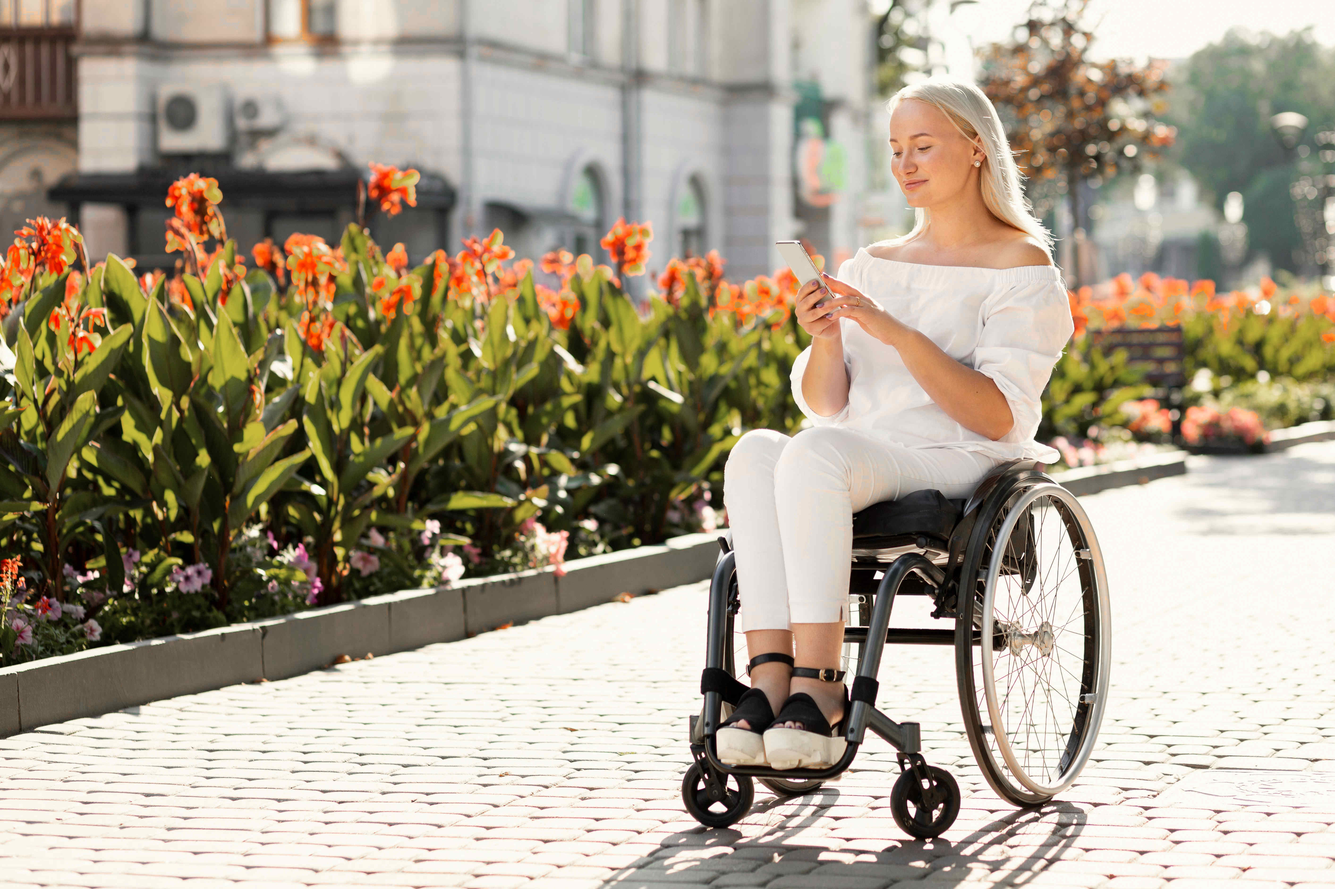
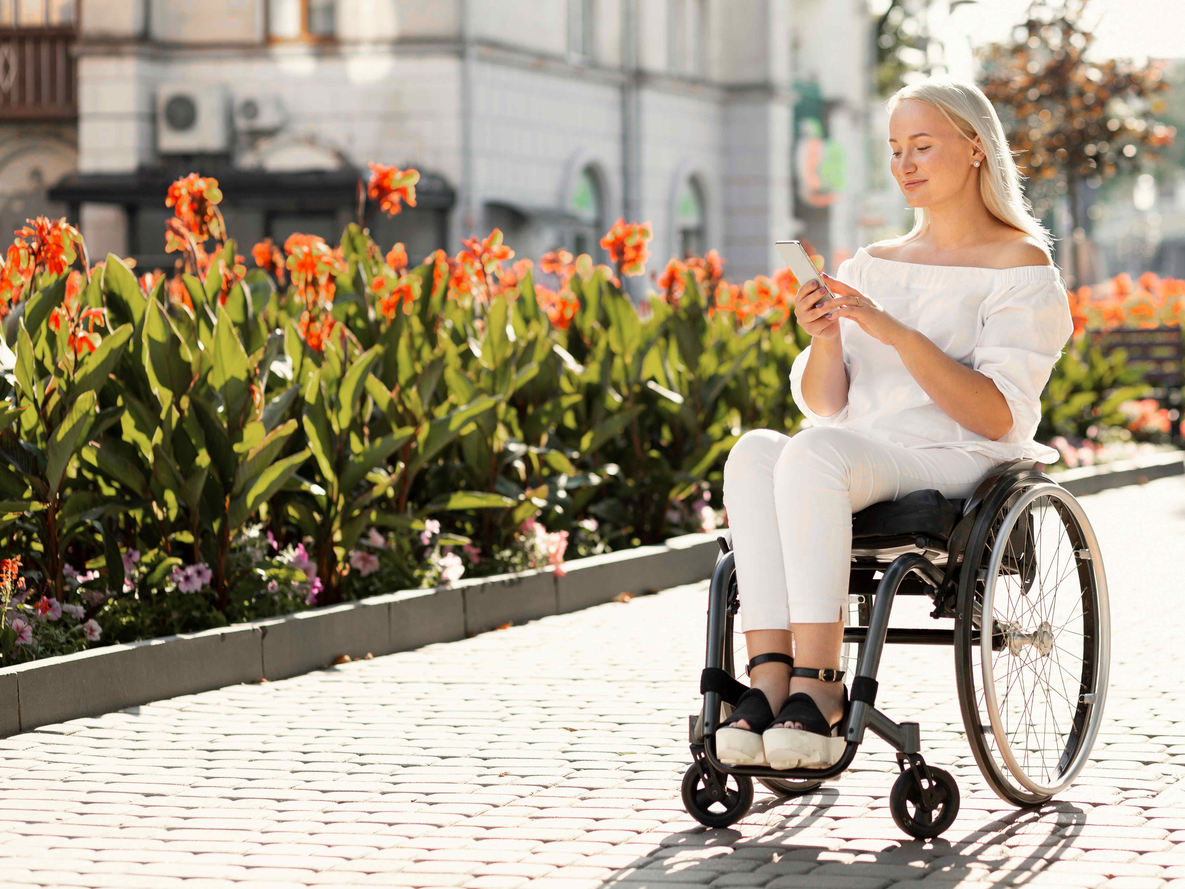
Added Javascript to position cover-text for md screens

diff --git a/index.html b/index.html
@@ -54,23 +54,23 @@
 
     <!-- Header -->
     <header>
+
+        <!-- Hero image with cover title -->
         <section id="hero">
-            <div id="cover-title">
+            <div id="cover-title" class="px-2 ms-md-2 ps-md-3">
                 <h2>Your path to accessibility</h2>
             </div>
         </section>
 
-        <!-- Sits below hero image for small screen sizes-->
-        <div class="p-3" id="cover-text-call">
+        <!-- Sits below hero image for small screen sizes, moves up to left-hand-side of hero image for medium screns-->
+        <div class="py-4 py-md-0 ms-md-2" id="cover-text-call">
 
+            <!-- Cover text -->
             <div class="p-2" id="cover-text">
-                <h3>Mobility Mapper is a free route-finder and navigation app specifically designed for users of
-                    wheeled
-                    mobility devices, including wheelchairs, mobility scooters, and tricycles.</h3>
-                <br>
+                <h3 class="pb-2">Mobility Mapper is a free route-finder and navigation app specifically designed for
+                    users of wheeled mobility devices, including wheelchairs, mobility scooters, and tricycles.</h3>
                 <h3>Mobility Mapper will enable you to generate accessible, barrier-free routes based on your
-                    specific
-                    needs, and the limitations of your wheeled mobility device.</h3>
+                    specific needs, and the limitations of your wheeled mobility device.</h3>
             </div>
 
             <!-- Call to action buttons -->
@@ -111,9 +111,9 @@
             </div>
         </div>
 
-
-        <div id="follow-social-media" class="mt-4 text-center">
-            <h3>Follow us on social media</h3>
+        <!-- Moves up onto her image for large screens -->
+        <div id="follow-social-media" class="my-4 text-center">
+            <h3 class="mb-3">Follow us on social media</h3>
             <div class="social-media-icons">
                 <a href="https://www.facebook.com/" target="_blank" rel="noopener noreferrer">
                     <i class="bi bi-facebook"></i>
@@ -143,7 +143,7 @@
                         <img src="./assets/images/stairs.jpg" class="card-img-top"
                             alt="A man in a wheelchair at the bottom of a set of steps, looking up at them. He is facing away from us.">
                         <div class="card-body">
-                            <h3 class="card-title brown-text">Avoid barriers</h3>
+                            <h3 class="card-title">Avoid barriers</h3>
                             <p class="card-text brown-text">
                                 Mobility Mapper generates routes that don't involve barriers, such as steps, steep
                                 hills, narrow paths, rough surfaces, high curbs, and gates designed to block motorbikes.
@@ -157,7 +157,7 @@
                         <img src="./assets/images/dropped_kerb_london.png" class="card-img-top"
                             alt="A dropped kerb on a path next to a road.">
                         <div class="card-body">
-                            <h3 class="card-title brown-text">Locate dropped kerbs and ramps</h3>
+                            <h3 class="card-title">Locate dropped kerbs and ramps</h3>
                             <p class="card-text brown-text">
                                 Dropped kerbs and ramps are marked on the map, so you can easily find exit and entry
                                 points.
@@ -171,7 +171,7 @@
                         <img src="./assets/images/device_dimensions.png" class="card-img-top"
                             alt="A man in a wheelchair looking at the path ahead of him. There is an orange, double-ended arrow spanning the width of the wheelchair, and an orange triangle under the wheelchair, representing a slope.">
                         <div class="card-body">
-                            <h3 class="card-title brown-text">Tailor routes to your needs</h3>
+                            <h3 class="card-title">Tailor routes to your needs</h3>
                             <p class="card-text brown-text">
                                 Generate accessible routes based on your specific needs of the user (e.g maximum
                                 incline, no cobbles), and the limitations of your mobility device (e.g. minimum path
@@ -186,8 +186,8 @@
                         <img src="./assets/images/accessible_toilet.jpg" class="card-img-top"
                             alt="A row of three beach huts that have been made into accessible toilets. The doors are wide, and there is a ramp leading up to them.">
                         <div class="card-body">
-                            <h3 class="card-title brown-text">Locate accessible points of interest</h3>
-                            <p class="card-text brown-text">
+                            <h3 class="card-title">Locate accessible points of interest</h3>
+                            <p class="card-text">
                                 Accessible points of interest are displayed on the map, including toilets, cafes, shops,
                                 and nature spots.
                             </p>
@@ -200,9 +200,10 @@
                         <img src="./assets/images/locate_dropped_kerbs.png" class="card-img-top"
                             alt="A map with a large orange Mobility Mapper marker, indicating the location of a dropped kerb or barrier.">
                         <div class="card-body">
-                            <h3 class="card-title brown-text">Report barriers and dropped kerbs</h3>
+                            <h3 class="card-title">Report barriers and dropped kerbs</h3>
                             <p class="card-text brown-text">
-                                If you come across a barrier, ramp or dropped curb that is not marked on the map, you can report it on the app.
+                                If you come across a barrier, ramp or dropped curb that is not marked on the map, you
+                                can report it on the app.
                             </p>
                         </div>
                     </div>
@@ -213,9 +214,10 @@
                         <img src="./assets/images/Matt_Walker.png" class="card-img-top"
                             alt="Two smiling men in wheelchairs facing us and giving each other a fist bump.">
                         <div class="card-body">
-                            <h3 class="card-title brown-text">Connect with other wheelers</h3>
+                            <h3 class="card-title">Connect with other wheelers</h3>
                             <p class="card-text brown-text">
-                                An integrated social network enables you to connect with other wheelers, and share information on accessible locations and favourite routes.                            </p>
+                                An integrated social network enables you to connect with other wheelers, and share
+                                information on accessible locations and favourite routes. </p>
                         </div>
                     </div>
                 </div>
@@ -223,41 +225,49 @@
             </div>
         </section>
 
-        <section id="seeking-funding" class="my-2 text-center">
-            <h2 class="m-3">We are currently seeking funding and partnerships!</h2>
-            <p class="m-3">Please check out our page for potential funders and partners. Whether you are an organisation or individual, you can help us accelerate the development of Mobility Mapper.</p>
+        <section id="seeking-funding" class="m-2 text-center">
+            <h2 class="my-3">We are currently seeking funding and partnerships!</h2>
+            <p class="my-3">Please check out our page for potential funders and partners. Whether you are an
+                organisation or individual, you can help us accelerate the development of Mobility Mapper.</p>
             <!-- Go to partnerships page -->
-            <button type="button" class="btn btn-lg custom-button-filled my-4" data-bs-target="parnerships.html">Go to the funding and partnerships page<i class="bi bi-arrow-right-circle"></i></button>
+            <button type="button" class="btn btn-lg custom-button-filled my-4" data-bs-target="parnerships.html">Go to
+                the funding and partnerships page<i class="bi bi-arrow-right-circle"></i></button>
         </section>
 
     </main>
 
     <!-- Footer -->
     <footer class="mt-5">
-        <div class="container py-4">
-            <div class="row px-3">
-                <div class="col-4 col-md-2">Home</div>
-                <div class="col-4 col-md-2">Subscribe</div>
-                <div class="col-4 col-md-2">Contact</div>
-                <div class="col-4 col-md-2">Top of page</div>
-                <div class="col-4 col-md-2">Partnerships</div>
-                <div class="col-4 col-md-2">Key Features</div>
 
-                <div class="col-12 social-media-icons text-center my-4">
-                    <a href="https://www.facebook.com/" target="_blank" rel="noopener noreferrer">
-                        <i class="bi bi-facebook"></i>
-                    </a>
-                    <a href="https://www.instagram.com/" target="_blank" rel="noopener noreferrer">
-                        <i class="bi bi-instagram"></i>
-                    </a>
-                    <a href="https://www.x.com/">
-                        <i class="bi bi-twitter-x"></i>
-                    </a>
-                </div>
-                <div class="col-12 text-center">
-                    <p mb-0>&copy; Mobility Mapper 2024</p>
-                </div>
+        <!-- Footer navigation -->
+        <div class="container py-4">
+            <!--equal spacing between the text links-->
+            <div class="row d-flex justify-content-center align-items-center gap-1 gap-md-3 px-2">
+                <div class="col-auto"><a href="index.html">Home</a></div>
+                <div class="col-auto"><a href="#myModal">Subscribe</a></div>
+                <div class="col-auto"><a href="contact.html">Contact</a></div>
+                <div class="col-auto"><a href="index.html">Top of page</a></div>
+                <div class="col-auto"><a href="partnerships.html">Partnerships</a></div>
+                <div class="col-auto"><a href="#key-features">Key Features</a></div>
             </div>
+        </div>
+
+        <!-- Social media icons -->
+        <div class="social-media-icons text-center pb-4">
+            <a href="https://www.facebook.com/profile.php?id=61556696245180" target="_blank" rel="noopener noreferrer">
+                <i class="bi bi-facebook"></i>
+            </a>
+            <a href="https://www.instagram.com/mobilitymapper/" target="_blank" rel="noopener noreferrer">
+                <i class="bi bi-instagram"></i>
+            </a>
+            <a href="https://www.x.com/MobilityMapper">
+                <i class="bi bi-twitter-x"></i>
+            </a>
+        </div>
+
+        <!--Copyright -->
+        <div class="text-center pb-3">
+            <p>&copy; Mobility Mapper 2024</p>
         </div>
 
     </footer>
@@ -267,6 +277,8 @@
     <script src="https://cdn.jsdelivr.net/npm/bootstrap@5.3.3/dist/js/bootstrap.bundle.min.js"
         integrity="sha384-YvpcrYf0tY3lHB60NNkmXc5s9fDVZLESaAA55NDzOxhy9GkcIdslK1eN7N6jIeHz"
         crossorigin="anonymous"></script>
+<!-- Custom js, determines position of bottom of #cover-title-->
+        <script src="./assets/js/index.js"></script>
 </body>
 
 </html>

diff --git a/assets/css/style.css b/assets/css/style.css
@@ -32,6 +32,10 @@ h1 {
     display: none;
 }
 
+p {
+    font-size: calc(1.1rem + .2vw)
+}
+
 a {
     text-decoration: none;
     color: var(--tertiary-color);
@@ -78,8 +82,6 @@ a {
     /* Larger height */
 }
 
-
-
 .navbar .logo {
     height: 40px
 }
@@ -104,14 +106,14 @@ a {
     width: 100%;
     /* Full width */
     /* height changes with screen witdth */
-    height: 1000px;
+    height: 600px;
     /* Default height */
     background-image: url("../images/woman-wheelchair-using-smartphone-optimised.jpg");
     background-size: cover;
     /* Resize the image to cover the entire container */
     background-repeat: no-repeat;
     /* Do not repeat the image */
-    background-position: 75% center;
+    background-position: 95% 100%;
     /* Position the image to the right */
     position: relative;
     /* For adding hero text relative to the hero image */
@@ -121,12 +123,10 @@ a {
 #cover-title {
     background-color: rgba(var(--primary-color), 0.8);
     position: absolute;
-    top: 30px;
-    /* 30px from the top of the #hero container */
-    width: 170px;
-    /* Fixed width, wraps text */
-    padding: 10px 20px 10px 10px;
-    /* Top, right, bottom, left */
+    top: 30px;    /* 30px from the top of the #hero container */
+    width: 170px; /* Fixed width, wraps text */
+    padding-top: 10px;
+    padding-bottom: 10px;
 }
 
 /* Container for cover text and call to action buttons */
@@ -137,7 +137,7 @@ a {
 
 /*
 cover-title height = h2 height + cover-title padding-top + bottom = 2.36rem + 20px 
-h2 height = 1.2*1.3rem = 1.56rem  + 0.3rem + 0.5rem = 2.36rem
+h2 height = 1.2*1.3rem + 1.2*0.6vh + 0.3rem + 0.5rem = 1.56rem + 0.72vh + 0.8rem
  */
 #cover-title>h2 {
     /* Override Bootstrap styles */
@@ -192,7 +192,7 @@ h2 height = 1.2*1.3rem = 1.56rem  + 0.3rem + 0.5rem = 2.36rem
 }
 
 .card-title {
-    color: #746241;
+    color: #313829;
     font-weight: bold;
 }
 
@@ -224,18 +224,23 @@ footer {
 /* Media query: tablet layout (768px and up) */
 @media screen and (min-width: 768px) {
 
+    /* Hero section */
+#hero {
+    /* height: 600px; */
+    /* background-position: 35% center; */
+}
+
     #cover-title {
-        width: 45%;
+        width: 50%;
+        top: 50px; /* moves down for med screens */
+        text-align: center;
     }
 
     /* Container for cover text and call to action buttons */
     #cover-text-call {
-        width: 45%;
+        width: 50%;
         /* Bring upwards into #hero image */
         position: absolute;
-        top: 20%;
-        /* 20% from the top of the page, need to change this */
-        /* top: -calc(1.2*1.3rem + 1.2*0.6vw + 0.8rem + 20px + 30px); directly below cover-title: cover-title height + distance of cover-text from top of page     */
         background-color: transparent;
     }
 

diff --git a/assets/js/index.js b/assets/js/index.js
@@ -1,0 +1,17 @@
+window.addEventListener('load', adjustPosition);
+window.addEventListener('resize', adjustPosition);
+
+function adjustPosition() {
+    // Get the bottom position of #cover-title
+    const coverTitle = document.getElementById('cover-title');
+    const coverTextCall = document.getElementById('cover-text-call');
+
+    if (coverTitle && coverTextCall) {
+        // Get the bottom position of #cover-title
+        const rect = coverTitle.getBoundingClientRect();
+        const bottomPosition = rect.bottom;
+
+        // Set the top property of #cover-text-call based on #cover-title's bottom
+        coverTextCall.style.top = `${bottomPosition}px`; // Add some spacing if needed
+    }
+}
